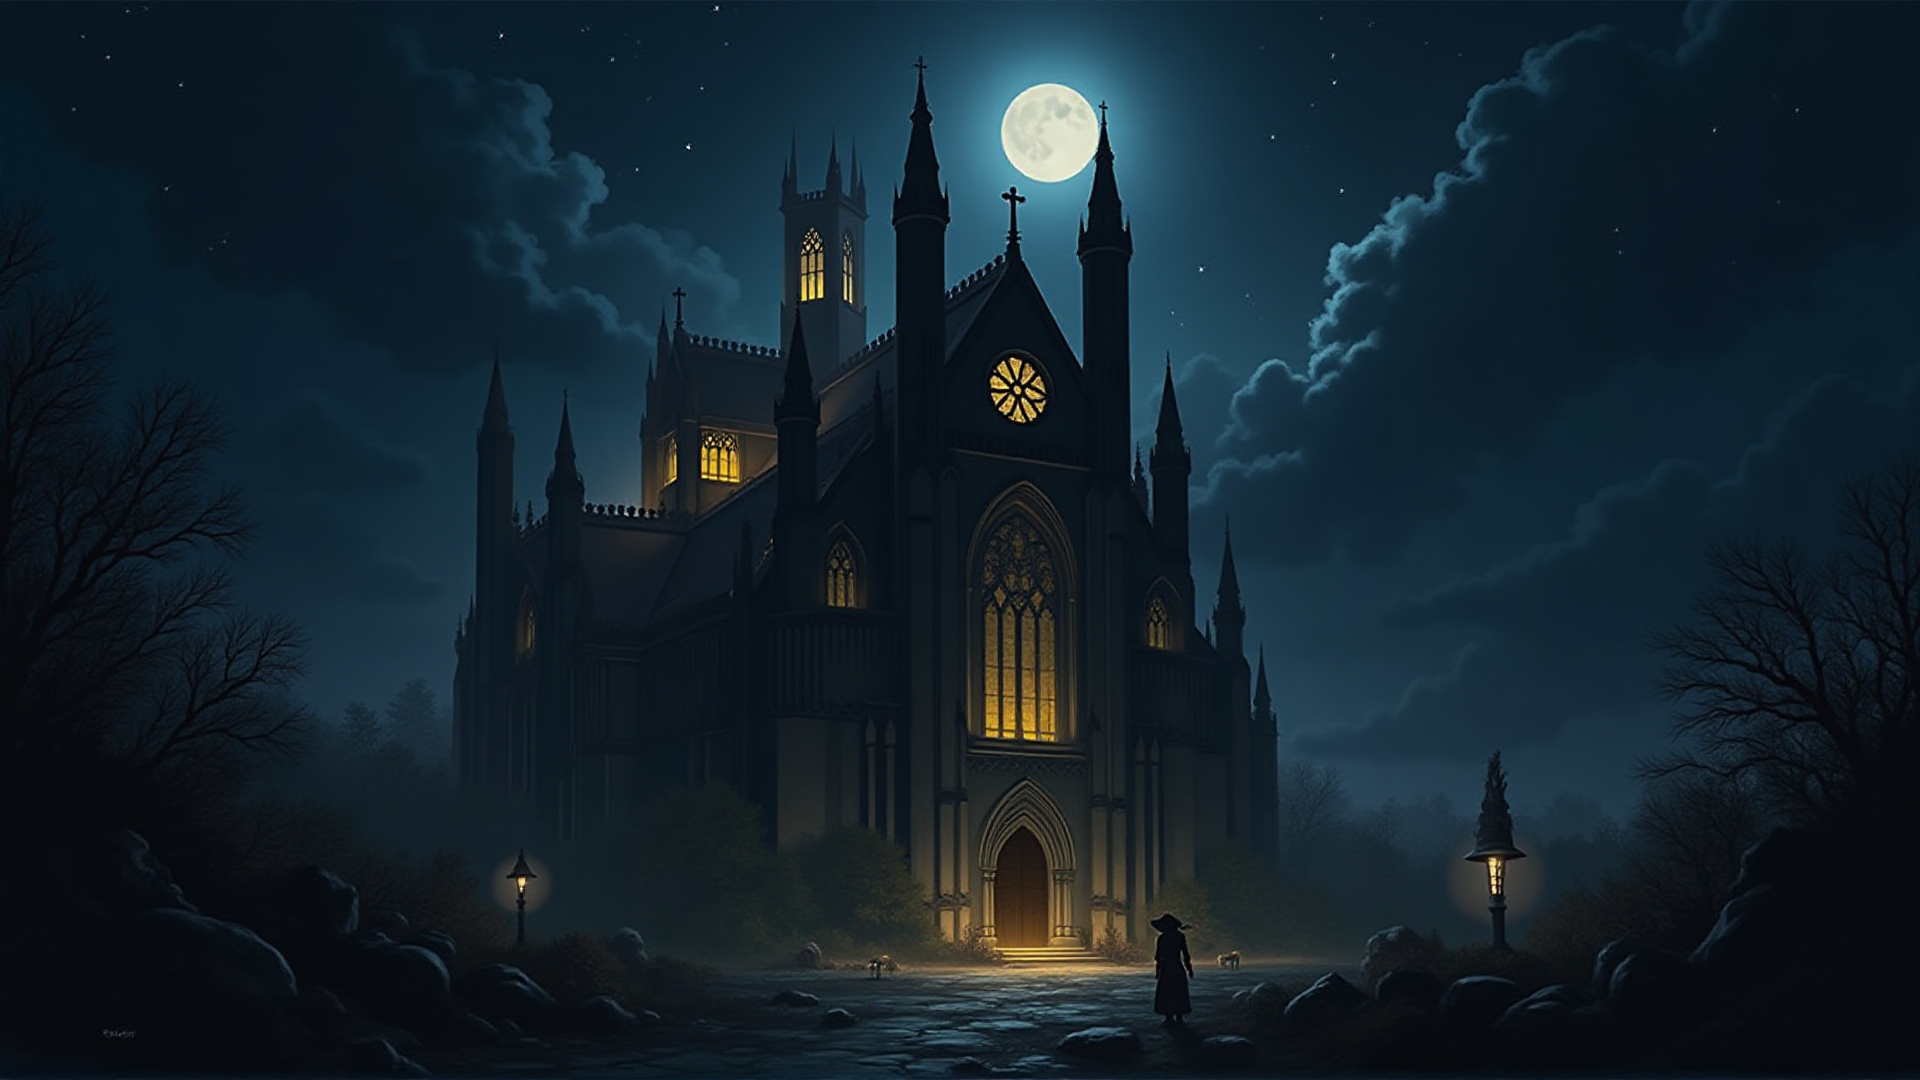
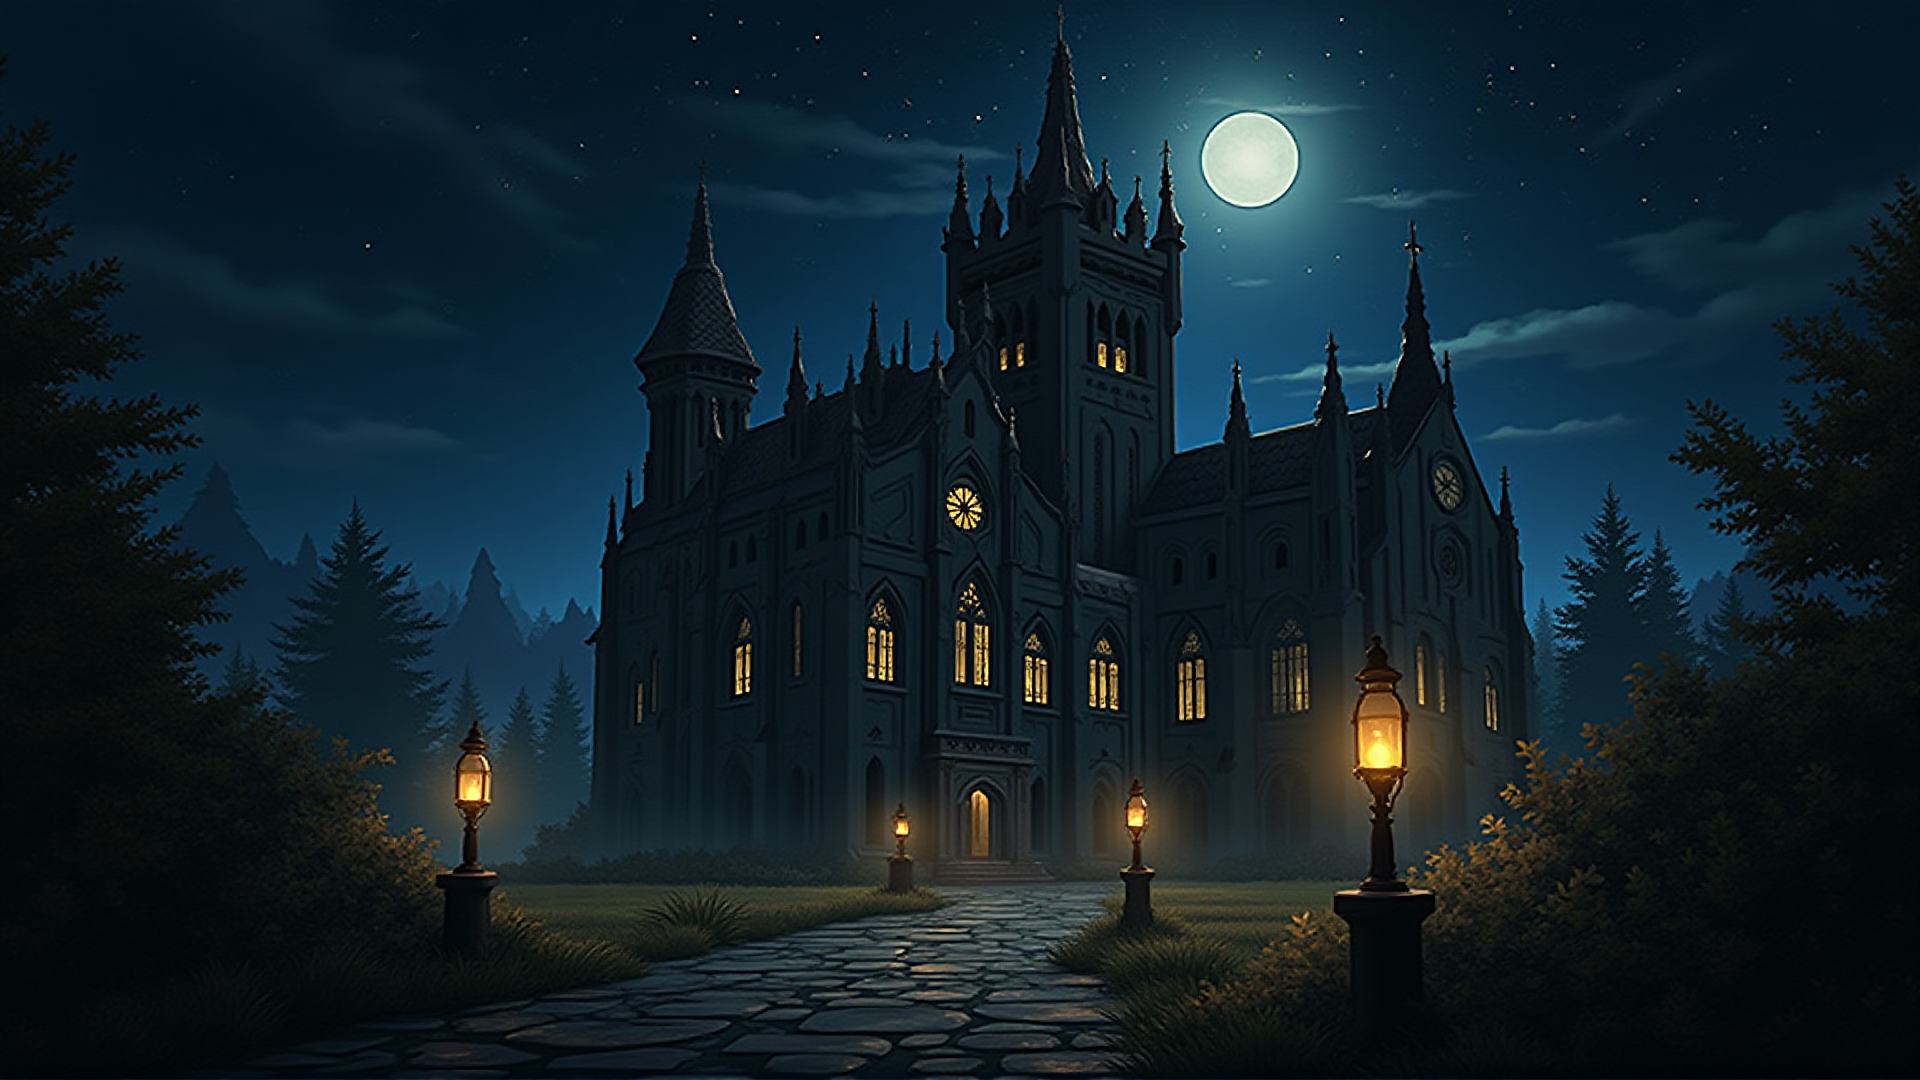
feat: player marker move across map

diff --git a/adventure_screen.cpp b/adventure_screen.cpp
@@ -42,7 +42,11 @@ struct AdventureScreen::ScreenInputVisitor
 		if (mouseButton.button == sf::Mouse::Button::Left && GameWorld::instance().getLocationManager().isOverlap())
 		{
 			sf::Vector2f mouseViewCoords = window.mapPixelToCoords(mouseButton.position);
+			LocationManager& locManager = GameWorld::instance().getLocationManager();
+			const Location& loc = locManager.getCurrentLocation();
+
 			GameWorld::instance().getWorldStateManager().advanceTime(240);
+			GameWorld::instance().setPlayerLocation(loc.getId().data());
 			//dr::ScreenManager::addScreen<LocationScreen>("location_screen");
 		}
 	}
@@ -71,6 +75,10 @@ void AdventureScreen::handleInput(const sf::Event& event, sf::RenderWindow& wind
 	event.visit(ScreenInputVisitor{ *this, window });
 }
 
+/**
+ * @brief 
+ * @param dt 
+ */
 void AdventureScreen::update(float dt)
 {
 	ImGui::SFML::Update(dr::ImguiHelper::getWindow(), dr::ImguiHelper::getTime());
@@ -85,12 +93,21 @@ void AdventureScreen::update(float dt)
 	ImGui::Begin("World state");
 	ImGui::Text(std::format("Phase of day: {}", dayPhase).c_str());
 	ImGui::End();
+
+	const Location& loc = GameWorld::instance().getLocationManager().getLocation(GameWorld::instance().getPlayerLocation());
+	mPlayerMarker.setPosition(loc.getCenter());
 }
 
+/**
+ * @brief 
+ * @param window 
+ */
 void AdventureScreen::render(sf::RenderWindow& window)
 {
 	window.setView(mMainView);
 	window.draw(mAdventureMap);
+
+	// draw a circle over the hovered location
 	for (const auto& loc : GameWorld::instance().getLocationManager().getLocations())
 	{
 		if (loc.second.isHovered())
